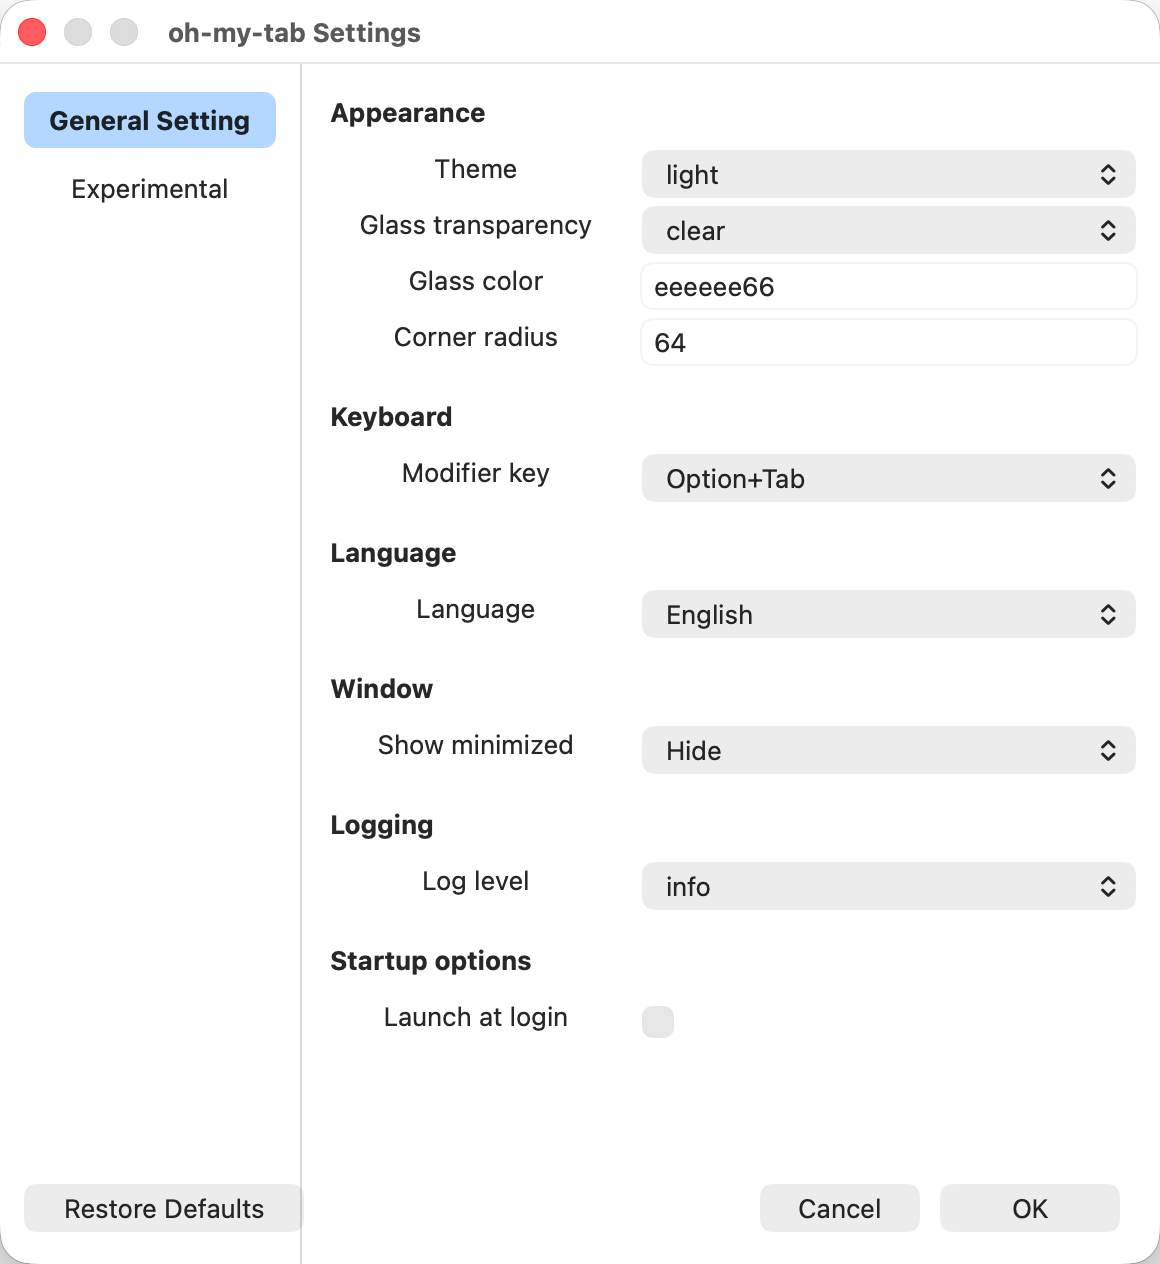
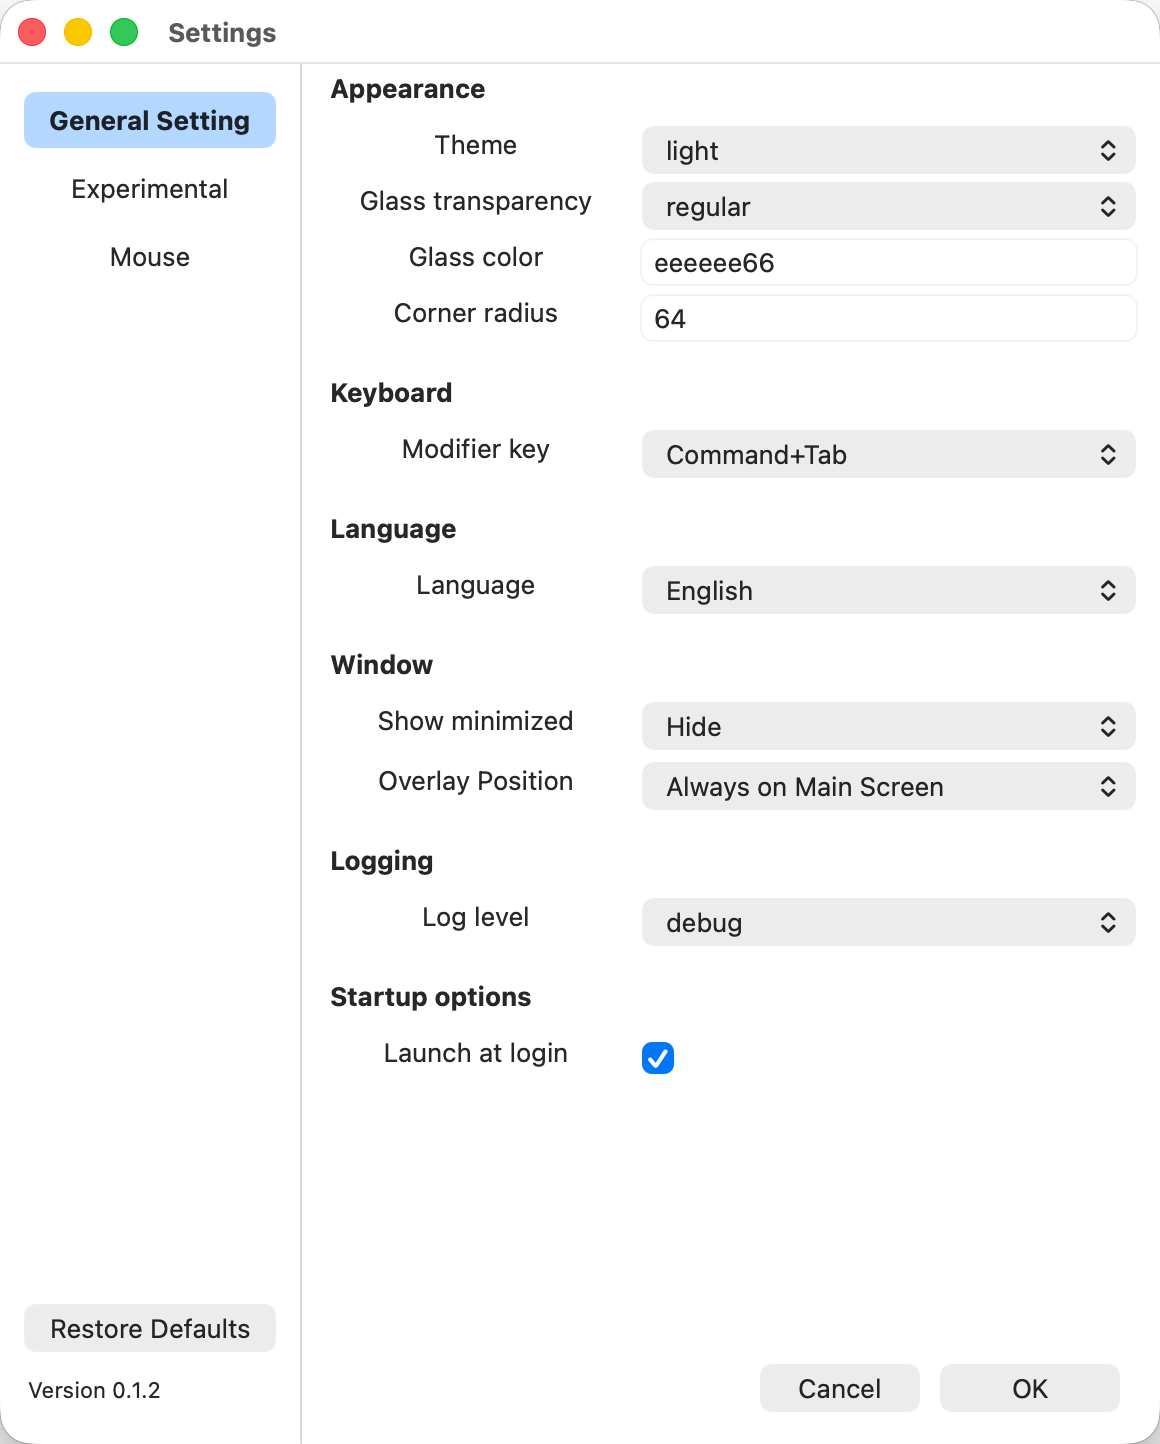
docs: update screenshots and device recognition notes

diff --git a/README.md b/README.md
@@ -29,11 +29,18 @@ It is pure Rust calling AppKit / CoreGraphics / ApplicationServices directly thr
 
 ![Settings](docs/pictures/settings.png)
 
+![Mouse control](docs/pictures/mouse_control.png)
+
 ## Known Issues
 
 If windows are already open when the app starts, their ordering differs from the native Cmd+Tab order. This is because there is no initial window-ordering data; oh-my-tab builds it by continuously observing window changes after launch.
 
 **Dev-mode icon staleness**: when running the raw binary via `cargo run`, the overlay may occasionally show oh-my-tab's own card with the letter placeholder instead of the app icon, and it can persist until the icon cache is cleared. The icon cache is keyed by bundle id with the executable's **mtime** as a staleness fingerprint; in dev mode the binary is relinked on every build, changing its mtime mid-session, which invalidates the cached entry for the running instance. Packaged `.app` builds are unaffected (the binary mtime is stable after install). If you hit this in dev, use *Clear Icon Cache* from the menu or delete `~/Library/Caches/oh-my-tab-icons/`.
+
+**Device recognition caveats**: a device is treated as a mouse/trackpad when it **conforms to** the Pointer (1,1), Mouse (1,2), or Trackpad (1,5) usage on the Generic Desktop page — checked via the public `IOHIDServiceClientConformsTo` API, which inspects the device's full `DeviceUsagePairs` rather than a single `PrimaryUsage` value. This is needed because some real mice report an unexpected primary usage: for example, **ATK A9 SE** (a Nearlink/星闪 device) exposes `PrimaryUsage = 6 (Keyboard)`, so macOS shows it as a keyboard in System Settings — but it also declares Mouse (1,2) in its `DeviceUsagePairs`, and `ConformsTo` catches it. Using `PrimaryUsage` alone would silently drop such devices from the picker and force their events onto the "last active" profile. Known caveats (same behavior as LinearMouse):
+
+- **Some keyboards also declare extra Mouse/Pointer usages** in their HID descriptor (e.g. Kzzi-i75), so they appear in the device picker too. This is cosmetic: event attribution matches by the exact sender ID (`CGEvent → IOHIDEvent → sender ID → IOHIDServiceClient`), so keyboard events never resolve to a mouse profile.
+- The device picker refreshes on every settings-window open; hot-plug is picked up on the next open.
 
 ## Requirements
 
@@ -65,7 +72,7 @@ cargo run         # build + run (takes over the global shortcut)
 cargo clippy      # available, not wired into CI
 ```
 
-`cargo run` launches the raw binary in **dev mode**: logs go to stdout (no log file) and launch-at-login is inactive (SMAppService needs a `.app` bundle). There are **no tests** in the project.
+`cargo run` launches the raw binary in **dev mode**: logs go to both stdout and the log file, and launch-at-login is inactive (SMAppService needs a `.app` bundle). There are **no tests** in the project.
 
 ### Release `.app` + `.dmg`
 
@@ -267,23 +274,12 @@ disable_acceleration = true
 
 Mouse settings are also exposed in the Settings window (a **device picker** lists each connected mouse; pick one to edit its layer). Enabling `mouse.enabled` requires an app restart (the OK button reflects this).
 
-### How devices are recognized (and its caveats)
-
-A device is treated as a mouse/trackpad when it **conforms to** the Pointer (1,1), Mouse (1,2), or Trackpad (1,5) usage on the Generic Desktop page — checked via the public `IOHIDServiceClientConformsTo` API, which inspects the device's full `DeviceUsagePairs` rather than a single `PrimaryUsage` value.
-
-This matters because some real mice report an unexpected primary usage: for example, **ATK A9 SE** (a Nearlink/星闪 device) exposes `PrimaryUsage = 6 (Keyboard)`, so macOS shows it as a keyboard in System Settings — but it also declares Mouse (1,2) in its `DeviceUsagePairs`, and `ConformsTo` catches it. Using `PrimaryUsage` alone would silently drop such devices from the picker and force their events onto the "last active" profile.
-
-Known caveats (same behavior as LinearMouse):
-
-- **Some keyboards also declare extra Mouse/Pointer usages** in their HID descriptor (e.g. Kzzi-i75), so they appear in the device picker too. This is cosmetic: event attribution matches by the exact sender ID (`CGEvent → IOHIDEvent → sender ID → IOHIDServiceClient`), so keyboard events never resolve to a mouse profile.
-- The device picker refreshes on every settings-window open; hot-plug is picked up on the next open.
-
 ## Logging
 
 Logging is asynchronous and designed to **never block the UI / event loop**.
 
 - **Async pipeline**: the `log_debug!` / `log_info!` macros format a line and send it over a **bounded** `flume` channel (capacity 512) to a background writer thread. The caller never blocks — if the channel is full (e.g. disk writes stall), the **newest** entries are dropped (drop-newest) rather than stalling the caller. Normal load never triggers drops.
-- **Destination**: `cargo run` (dev) → stdout only; a packaged `.app` (prod) → file.
+- **Destination**: `cargo run` (dev) → both stdout **and** the log file; a packaged `.app` (prod) → log file only.
 - **Default file path**: `~/Library/Logs/oh-my-tab/oh-my-tab-<startup-timestamp>.log` — one file **per app launch**, where the timestamp is the process start time in a filename-safe form (e.g. `oh-my-tab-2026-07-25_17-08-30.log`).
 - **Automatic 30-day cleanup**: at startup, the default log directory is scanned and any `oh-my-tab-*.log` whose modification time is older than 30 days is deleted. The current run's file is never pruned (its mtime keeps updating as it is written). Cleanup matches only the `oh-my-tab-*.log` pattern, so unrelated files in the same directory are left alone.
 - **Within a single long run** the file still grows — there is no size-based rotation. The 30-day cleanup is cross-run, by mtime.

diff --git a/README-ZH.md b/README-ZH.md
@@ -29,11 +29,18 @@
 
 ![设置](docs/pictures/settings.png)
 
+![鼠标控制](docs/pictures/mouse_control.png)
+
 ## 已知问题
 如果应用启动时已经有窗口存在，此时窗口排序与原生的Command加Tab排序不同，
 这是由于没有初始的窗口排序数据导致的，oh-my-tab启动后会持续监听窗口的变化
 
 **开发模式下图标可能不正确**：用 `cargo run` 跑裸二进制时,浮层偶尔会把 oh-my-tab 自己的卡片显示成首字母占位块而不是应用图标,而且可能一直持续到手动清空图标缓存。图标缓存按 bundle id 索引,以可执行文件的 **mtime** 作为失效指纹;开发模式下每次构建都会重链接二进制、改变 mtime,导致运行中实例的缓存条目失效。打包后的 `.app` 不受影响(安装后二进制 mtime 稳定)。开发中遇到此问题,可从菜单 *Clear Icon Cache* 清空,或删除 `~/Library/Caches/oh-my-tab-icons/`。
+
+**设备识别的问题**：判断某设备是否为鼠标/触控板,看它是否符合 Generic Desktop 页的 Pointer(1,1)、Mouse(1,2) 或 Trackpad(1,5) 用途 —— 用公开 API `IOHIDServiceClientConformsTo` 检查,它遍历设备完整的 `DeviceUsagePairs`,而不是单个 `PrimaryUsage` 值。这是必要的,因为有些真实鼠标的主用途会被系统报错:例如 **ATK A9 SE**(Nearlink/星闪鼠标)在系统里 `PrimaryUsage = 6(Keyboard)`,系统设置会把它显示为键盘——但它的 `DeviceUsagePairs` 里同时声明了 Mouse(1,2),`ConformsTo` 能识别出来。如果只看 `PrimaryUsage`,这类设备会被静默丢弃,它们的事件会被错误地套到"最近使用"的档位上。已知的副作用(与 LinearMouse 行为一致):
+
+- **少数键盘的 HID 描述符也声明了多余的 Mouse/Pointer 用途**(如 Kzzi-i75),它们也会出现在设备下拉框里。这纯粹是显示层面:事件归因按精确的 sender ID 匹配(`CGEvent → IOHIDEvent → sender ID → IOHIDServiceClient`),键盘事件永远不会被解析到鼠标档位。
+- 设备下拉框在每次打开设置窗口时刷新;热插拔的设备会在下次打开时出现。
 
 ## 环境要求
 
@@ -65,7 +72,7 @@ cargo run         # 构建并运行(会接管全局快捷键)
 cargo clippy      # 可用,未接入 CI
 ```
 
-`cargo run` 以**开发模式**跑裸二进制:日志输出到 stdout(不写文件),开机自启不生效(SMAppService 需要 `.app` bundle)。项目**没有测试**。
+`cargo run` 以**开发模式**跑裸二进制:日志同时输出到 stdout 和日志文件,开机自启不生效(SMAppService 需要 `.app` bundle)。项目**没有测试**。
 
 ### Release `.app` + `.dmg`
 
@@ -267,23 +274,12 @@ disable_acceleration = true
 
 鼠标设置也可以在设置窗口中调整(用**设备下拉框**选中某款已连接的鼠标,编辑它那一层)。开启 `mouse.enabled` 需要重启应用(OK 按钮会提示)。
 
-### 设备识别逻辑(以及可能遇到的问题)
-
-判断某设备是否为鼠标/触控板:看它是否符合 Generic Desktop 页的 Pointer(1,1)、Mouse(1,2) 或 Trackpad(1,5) 用途 —— 用公开 API `IOHIDServiceClientConformsTo` 检查,它遍历设备完整的 `DeviceUsagePairs`,而不是单个 `PrimaryUsage` 值。
-
-这很关键,因为有些真实鼠标的主用途会被系统报错:例如 **ATK A9 SE**(Nearlink/星闪鼠标)在系统里 `PrimaryUsage = 6(Keyboard)`,系统设置会把它显示为键盘——但它的 `DeviceUsagePairs` 里同时声明了 Mouse(1,2),`ConformsTo` 能识别出来。如果只看 `PrimaryUsage`,这类设备会被静默丢弃,它们的事件会被错误地套到"最近使用"的档位上。
-
-已知的副作用(与 LinearMouse 行为一致):
-
-- **少数键盘的 HID 描述符也声明了多余的 Mouse/Pointer 用途**(如 Kzzi-i75),它们也会出现在设备下拉框里。这纯粹是显示层面:事件归因按精确的 sender ID 匹配(`CGEvent → IOHIDEvent → sender ID → IOHIDServiceClient`),键盘事件永远不会被解析到鼠标档位。
-- 设备下拉框在每次打开设置窗口时刷新;热插拔的设备会在下次打开时出现。
-
 ## 日志
 
 日志是异步的,设计上**绝不阻塞 UI / 事件循环**。
 
 - **异步管线**:`log_debug!` / `log_info!` 宏格式化一行后,通过**有界** `flume` 通道(容量 512)发给后台 writer 线程。调用方永不阻塞 -- 通道满时(例如落盘卡顿)丢弃**最新**的日志(drop-newest),而不是拖住调用方。正常负载下不会触发丢弃。
-- **输出目标**:`cargo run`(开发态)-> 只输出到 stdout;打包的 `.app`(生产态)-> 写文件。
+- **输出目标**:`cargo run`(开发态)-> 同时输出到 stdout **和**日志文件;打包的 `.app`(生产态)-> 只写日志文件。
 - **默认文件路径**:`~/Library/Logs/oh-my-tab/oh-my-tab-<启动时间戳>.log` -- **每次启动一个文件**,时间戳取进程启动时刻、文件名安全格式(如 `oh-my-tab-2026-07-25_17-08-30.log`)。
 - **自动清理 30 天前日志**:启动时扫描默认日志目录,删除任何 mtime 超过 30 天的 `oh-my-tab-*.log`。当前运行的文件不会被误删(它一直在写,mtime 持续更新)。清理只匹配 `oh-my-tab-*.log` 模式,同目录下的无关文件不受影响。
 - **单次长时间运行内**文件仍会增长 -- 没有按大小轮转。30 天清理是跨运行、按 mtime 进行的。

diff --git a/docs/TODO.md b/docs/TODO.md
@@ -30,4 +30,3 @@
 - 切换窗口和鼠标控制改成两个线程？
 - ~~不用mod.rs这种写法？~~
 - 光标切换存在问题
-- 输出目标:cargo run(开发态)-> 只输出到 stdout;打包的 .app(生产态)-> 写文件
